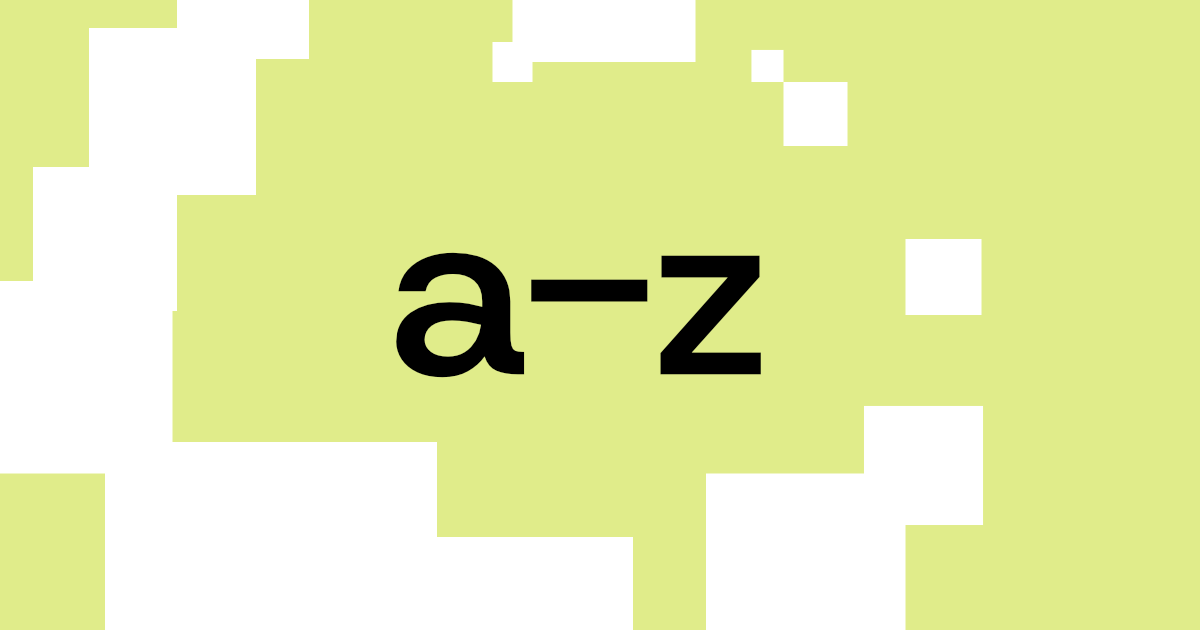
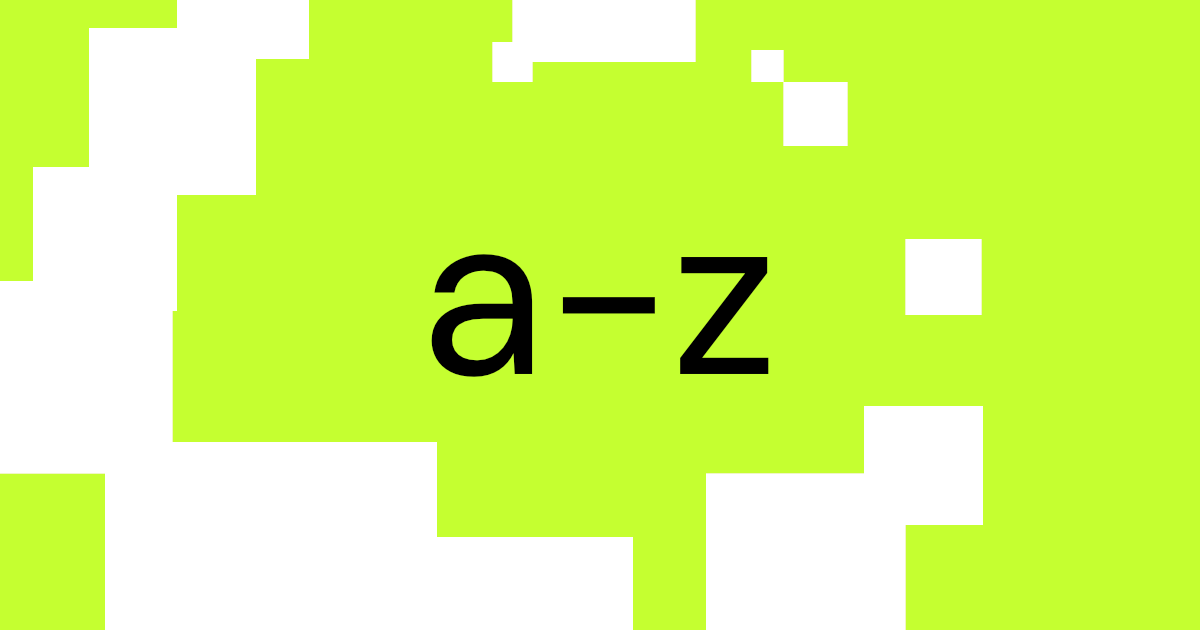
e

diff --git a/tetris-story.html b/tetris-story.html
@@ -73,6 +73,7 @@
 
     #tagline span {
       display: block;
+      font-style: italic;
       width: fit-content;
     }
 
@@ -193,7 +194,6 @@
       padding: 0;
       margin: 0;
       font: inherit;
-      font-style: italic;
       color: #000;
       cursor: pointer;
       overflow: visible;
@@ -1688,14 +1688,15 @@
 
 const emailBtn = document.getElementById('email-btn');
     let emailCopied = false;
-    emailBtn.addEventListener('mouseenter', () => { if (!emailCopied) emailBtn.textContent = 'copy e-mail'; });
-    emailBtn.addEventListener('mouseleave', () => { if (!emailCopied) emailBtn.textContent = 'e-mail'; });
+    emailBtn.addEventListener('mouseenter', () => { if (!emailCopied) { emailBtn.textContent = 'copy e-mail'; emailBtn.style.fontStyle = 'italic'; } });
+    emailBtn.addEventListener('mouseleave', () => { if (!emailCopied) { emailBtn.textContent = 'e-mail'; emailBtn.style.fontStyle = ''; } });
     emailBtn.addEventListener('click', () => {
       navigator.clipboard.writeText('dearmrzdravkovic@gmail.com').then(() => {
         emailCopied = true;
         emailBtn.textContent = 'copied!';
-        setTimeout(() => { emailCopied = false; emailBtn.textContent = 'e-mail'; }, 2000);
-      }).catch(() => { emailBtn.textContent = 'e-mail'; });
+        emailBtn.style.fontStyle = 'italic';
+        setTimeout(() => { emailCopied = false; emailBtn.textContent = 'e-mail'; emailBtn.style.fontStyle = ''; }, 2000);
+      }).catch(() => { emailBtn.textContent = 'e-mail'; emailBtn.style.fontStyle = ''; });
     });
 
     // ── CHARACTER OVERLAY (page load) ──

diff --git a/tetris-40th.html b/tetris-40th.html
@@ -71,6 +71,7 @@
 
     #tagline span {
       display: block;
+      font-style: italic;
       width: fit-content;
     }
 
@@ -191,7 +192,6 @@
       padding: 0;
       margin: 0;
       font: inherit;
-      font-style: italic;
       color: #fff;
       cursor: pointer;
       overflow: visible;
@@ -1123,14 +1123,15 @@
 
     const emailBtn = document.getElementById('email-btn');
     let emailCopied = false;
-    emailBtn.addEventListener('mouseenter', () => { if (!emailCopied) emailBtn.textContent = 'copy e-mail'; });
-    emailBtn.addEventListener('mouseleave', () => { if (!emailCopied) emailBtn.textContent = 'e-mail'; });
+    emailBtn.addEventListener('mouseenter', () => { if (!emailCopied) { emailBtn.textContent = 'copy e-mail'; emailBtn.style.fontStyle = 'italic'; } });
+    emailBtn.addEventListener('mouseleave', () => { if (!emailCopied) { emailBtn.textContent = 'e-mail'; emailBtn.style.fontStyle = ''; } });
     emailBtn.addEventListener('click', () => {
       navigator.clipboard.writeText('dearmrzdravkovic@gmail.com').then(() => {
         emailCopied = true;
         emailBtn.textContent = 'copied!';
-        setTimeout(() => { emailCopied = false; emailBtn.textContent = 'e-mail'; }, 2000);
-      }).catch(() => { emailBtn.textContent = 'e-mail'; });
+        emailBtn.style.fontStyle = 'italic';
+        setTimeout(() => { emailCopied = false; emailBtn.textContent = 'e-mail'; emailBtn.style.fontStyle = ''; }, 2000);
+      }).catch(() => { emailBtn.textContent = 'e-mail'; emailBtn.style.fontStyle = ''; });
     });
 
     // ── PRIMEINTRO ──

diff --git a/make-it-pop.html b/make-it-pop.html
@@ -67,6 +67,7 @@
 
     #tagline span {
       display: block;
+      font-style: italic;
       color: #FF7BA8;
     }
 
@@ -165,7 +166,6 @@
       padding: 0;
       margin: 0;
       font: inherit;
-      font-style: italic;
       color: #000;
       cursor: pointer;
       overflow: visible;
@@ -1679,17 +1679,18 @@
     let copied = false;
 
     emailBtn.addEventListener('mouseenter', () => {
-      if (!copied) emailBtn.textContent = 'copy e-mail';
+      if (!copied) { emailBtn.textContent = 'copy e-mail'; emailBtn.style.fontStyle = 'italic'; }
     });
     emailBtn.addEventListener('mouseleave', () => {
-      if (!copied) emailBtn.textContent = 'e-mail';
+      if (!copied) { emailBtn.textContent = 'e-mail'; emailBtn.style.fontStyle = ''; }
     });
     emailBtn.addEventListener('click', () => {
       navigator.clipboard.writeText('dearmrzdravkovic@gmail.com').then(() => {
         copied = true;
         emailBtn.textContent = 'copied!';
-        setTimeout(() => { copied = false; emailBtn.textContent = 'e-mail'; }, 2000);
-      }).catch(() => { emailBtn.textContent = 'e-mail'; });
+        emailBtn.style.fontStyle = 'italic';
+        setTimeout(() => { copied = false; emailBtn.textContent = 'e-mail'; emailBtn.style.fontStyle = ''; }, 2000);
+      }).catch(() => { emailBtn.textContent = 'e-mail'; emailBtn.style.fontStyle = ''; });
     });
   </script>
 

diff --git a/this-is-my-show.html b/this-is-my-show.html
@@ -72,6 +72,7 @@
 
     #tagline span {
       display: block;
+      font-style: italic;
       width: fit-content;
     }
 
@@ -193,7 +194,6 @@
       padding: 0;
       margin: 0;
       font: inherit;
-      font-style: italic;
       color: #000;
       cursor: pointer;
       overflow: visible;
@@ -347,21 +347,24 @@
     let copied = false;
 
     emailBtn.addEventListener('mouseenter', () => {
-      if (!copied) emailBtn.textContent = 'copy e-mail';
+      if (!copied) { emailBtn.textContent = 'copy e-mail'; emailBtn.style.fontStyle = 'italic'; }
     });
     emailBtn.addEventListener('mouseleave', () => {
-      if (!copied) emailBtn.textContent = 'e-mail';
+      if (!copied) { emailBtn.textContent = 'e-mail'; emailBtn.style.fontStyle = ''; }
     });
     emailBtn.addEventListener('click', () => {
       navigator.clipboard.writeText('dearmrzdravkovic@gmail.com').then(() => {
         copied = true;
         emailBtn.textContent = 'copied!';
+        emailBtn.style.fontStyle = 'italic';
         setTimeout(() => {
           copied = false;
           emailBtn.textContent = 'e-mail';
+          emailBtn.style.fontStyle = '';
         }, 2000);
       }).catch(() => {
         emailBtn.textContent = 'e-mail';
+        emailBtn.style.fontStyle = '';
       });
     });
   </script>

diff --git a/index.html b/index.html
@@ -236,7 +236,6 @@
       padding: 0;
       margin: 0;
       font: inherit;
-      font-style: italic;
       color: #000;
       cursor: pointer;
       overflow: visible;
@@ -524,22 +523,25 @@
     let copied = false;
 
     emailBtn.addEventListener('mouseenter', () => {
-      if (!copied) emailBtn.textContent = 'copy e-mail';
+      if (!copied) { emailBtn.textContent = 'copy e-mail'; emailBtn.style.fontStyle = 'italic'; }
     });
     emailBtn.addEventListener('mouseleave', () => {
-      if (!copied) emailBtn.textContent = 'e-mail';
+      if (!copied) { emailBtn.textContent = 'e-mail'; emailBtn.style.fontStyle = ''; }
     });
 
     emailBtn.addEventListener('click', () => {
       navigator.clipboard.writeText('dearmrzdravkovic@gmail.com').then(() => {
         copied = true;
         emailBtn.textContent = 'copied!';
+        emailBtn.style.fontStyle = 'italic';
         setTimeout(() => {
           copied = false;
           emailBtn.textContent = 'e-mail';
+          emailBtn.style.fontStyle = '';
         }, 2000);
       }).catch(() => {
         emailBtn.textContent = 'e-mail';
+        emailBtn.style.fontStyle = '';
       });
     });
 
